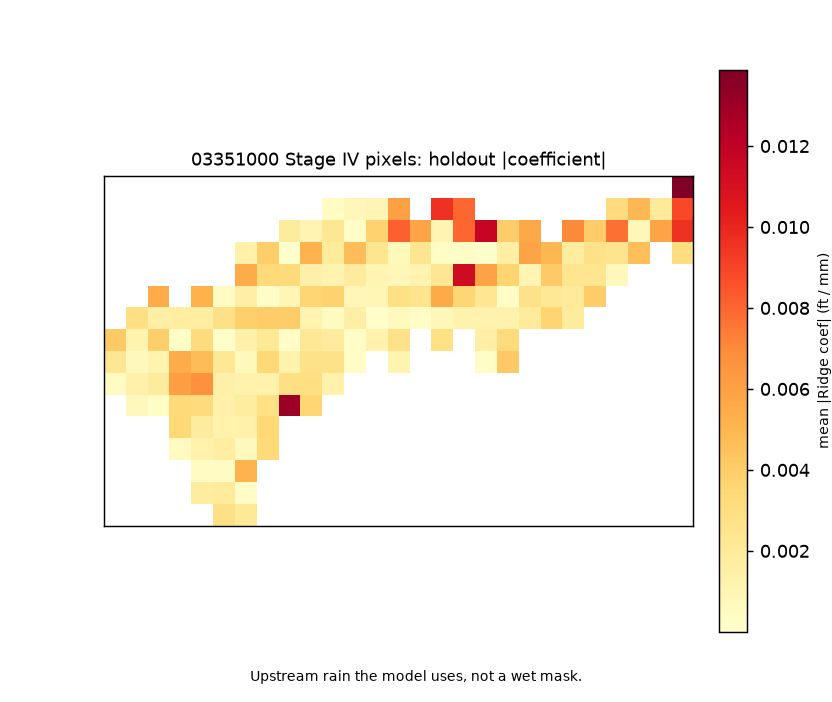
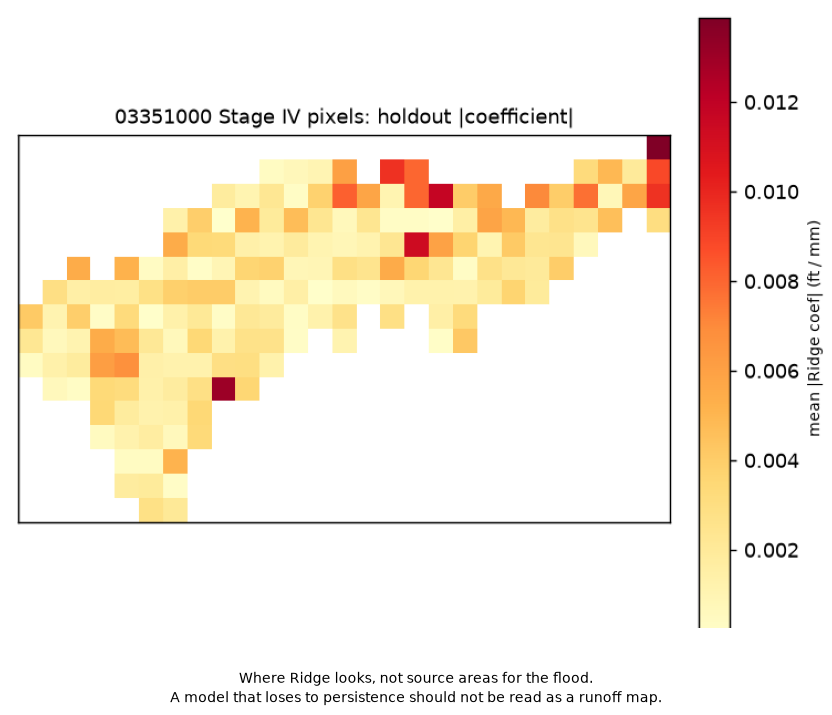
Lock e41fd69 as a negative live result.
Persistence is the bar. Figure 2 is where Ridge looks, not a runoff map.
Fixture skill does not rescue live.

Changed region(s): [[0.0, 0.0, 1.0, 0.9274], [0.2188, 0.9274, 0.8125, 0.9872]]

diff --git a/src/rainstage/figure.py b/src/rainstage/figure.py
@@ -9,7 +9,14 @@ from typing import Any
 import numpy as np
 
 from rainstage.claims import require_clean
-from rainstage.config import CREST_STAGE_FT, FLOOD_STAGE_FT, GAGE_ID, MAX_FIGURES
+from rainstage.config import (
+    CREST_STAGE_FT,
+    FIXTURE_ATTRIBUTION_SUBTITLE,
+    FLOOD_STAGE_FT,
+    GAGE_ID,
+    LIVE_ATTRIBUTION_SUBTITLE,
+    MAX_FIGURES,
+)
 from rainstage.errors import FigureCapError
 
 
@@ -83,15 +90,61 @@ def write_attribution(dest: Path, *, fit: dict[str, Any], title: str, subtitle: 
     ax.set_xticks([])
     ax.set_yticks([])
     ax.set_title(title, fontsize=10)
-    fig.text(0.5, 0.03, subtitle, ha="center", fontsize=8)
-    fig.subplots_adjust(bottom=0.10, top=0.90)
+    lines = [ln.strip() for ln in subtitle.split(".") if ln.strip()]
+    if len(lines) >= 2:
+        fig.text(0.5, 0.045, lines[0] + ".", ha="center", fontsize=8)
+        fig.text(0.5, 0.018, ". ".join(lines[1:]) + ".", ha="center", fontsize=7.5)
+        fig.subplots_adjust(bottom=0.12, top=0.90)
+    else:
+        fig.text(0.5, 0.03, subtitle, ha="center", fontsize=8)
+        fig.subplots_adjust(bottom=0.10, top=0.90)
     dest.parent.mkdir(parents=True, exist_ok=True)
     fig.savefig(dest, dpi=130)
     plt.close(fig)
     return dest
 
 
-def write_two(log_dir: Path, *, fit: dict[str, Any]) -> list[Path]:
+def restamp_attribution_caption(path: Path, *, subtitle: str) -> Path:
+    """Replace the footer on an existing attribution PNG. Does not re-fit."""
+    require_clean(subtitle, source="fig2_sub")
+    import matplotlib
+
+    matplotlib.use("Agg")
+    import matplotlib.pyplot as plt
+
+    img = np.asarray(plt.imread(path), dtype=float)
+    if img.max() > 1.0:
+        img = img / 255.0
+    rgb = img[..., :3] if img.ndim == 3 else img
+    ink = rgb.min(axis=2) if rgb.ndim == 3 else rgb
+    rows = np.where(ink < 0.97)[0]
+    cols = np.where(ink.min(axis=0) < 0.97)[0]
+    r0, r1 = int(rows[0]), int(rows[-1]) + 1
+    c0, c1 = int(cols[0]), int(cols[-1]) + 1
+    # Drop the old footer line; keep title, grid, colorbar.
+    r1 = r0 + int(0.90 * (r1 - r0))
+    crop = img[max(0, r0 - 8) : r1, max(0, c0 - 8) : min(img.shape[1], c1 + 8)]
+    fig, ax = plt.subplots(figsize=(6.4, 5.5))
+    ax.imshow(crop)
+    ax.set_xticks([])
+    ax.set_yticks([])
+    ax.set_title("")
+    for spine in ax.spines.values():
+        spine.set_visible(False)
+    lines = [ln.strip() for ln in subtitle.split(".") if ln.strip()]
+    if len(lines) >= 2:
+        fig.text(0.5, 0.045, lines[0] + ".", ha="center", fontsize=8)
+        fig.text(0.5, 0.018, ". ".join(lines[1:]) + ".", ha="center", fontsize=7.5)
+    else:
+        fig.text(0.5, 0.03, subtitle, ha="center", fontsize=8)
+    fig.subplots_adjust(bottom=0.12, top=0.99, left=0.01, right=0.99)
+    fig.savefig(path, dpi=130)
+    plt.close(fig)
+    return path
+
+
+def write_two(log_dir: Path, *, fit: dict[str, Any], live: bool = False) -> list[Path]:
+    sub = LIVE_ATTRIBUTION_SUBTITLE if live else FIXTURE_ATTRIBUTION_SUBTITLE
     paths = [
         write_hydrograph(
             log_dir / "hydrograph.png",
@@ -103,7 +156,7 @@ def write_two(log_dir: Path, *, fit: dict[str, Any]) -> list[Path]:
             log_dir / "attribution.png",
             fit=fit,
             title=f"{GAGE_ID} Stage IV pixels: holdout |coefficient|",
-            subtitle="Upstream rain the model uses, not a wet mask.",
+            subtitle=sub,
         ),
     ]
     _cap(len(paths))

diff --git a/src/rainstage/claims.py b/src/rainstage/claims.py
@@ -18,6 +18,8 @@ _BANS: tuple[tuple[str, re.Pattern[str]], ...] = (
     ("hand_firm", re.compile(r"\bHAND (?:mask|wet(?: area)?|bathtub) is (?:a |the )?FIRM\b", re.I)),
     ("attrib_wet", re.compile(r"\battribution (?:map|layer) is (?:a |the )?(?:wet mask|inundation)\b", re.I)),
     ("attrib_firm", re.compile(r"\battribution (?:map|layer) is (?:a |the )?FIRM\b", re.I)),
+    ("attrib_runoff", re.compile(r"\battribution (?:map|layer|grid) is (?:a |the )?(?:runoff map|source area)\b", re.I)),
+    ("fixture_rescues", re.compile(r"\bfixture (?:skill|RMSE) rescues live\b", re.I)),
     ("flood_warning", re.compile(r"\bflood warning\b|\bemergency forecast\b", re.I)),
     ("flood_ai", re.compile(r"\bflood AI\b", re.I)),
     ("train_fema", re.compile(r"\btrain(?:ed|ing)? (?:a )?(?:flood )?model on FEMA\b", re.I)),

diff --git a/tests/test_claims.py b/tests/test_claims.py
@@ -5,9 +5,14 @@ from rainstage.config import QUESTION
 
 
 def test_question_and_bans() -> None:
+    from rainstage.config import LIVE_ATTRIBUTION_SUBTITLE
+
     assert scan_text(QUESTION) == []
+    assert scan_text(LIVE_ATTRIBUTION_SUBTITLE) == []
     assert "flood_ai" in scan_text("we built flood AI")
     assert "attrib_wet" in scan_text("attribution map is a wet mask")
     assert "attrib_firm" in scan_text("attribution layer is a FIRM")
+    assert "attrib_runoff" in scan_text("attribution map is a runoff map")
+    assert "fixture_rescues" in scan_text("fixture skill rescues live")
     assert "flood_warning" in scan_text("this is a flood warning")
     assert "forecast" in scan_text("P(sfha | hydro) is a flood forecast")

diff --git a/src/rainstage/config.py b/src/rainstage/config.py
@@ -29,6 +29,14 @@ LOCKED_NLDI_BASIN_SHA256 = "944566fd7828b63d4975dbeea69152c9c339ce11c71e668c0143
 LOCKED_NLDI_AREA_MI2 = 1227.28
 LOCKED_STAGEIV_CELLSIZE_M = 4762.5
 LOCKED_STAGEIV_CRS_TOKEN = "NOAA_HRAP_Grid"
+LOCKED_LIVE_COMMIT = "e41fd69602046683818dd33b28ddc07029d8c605"
+LIVE_ATTRIBUTION_SUBTITLE = (
+    "Where Ridge looks, not source areas for the flood. "
+    "A model that loses to persistence should not be read as a runoff map."
+)
+FIXTURE_ATTRIBUTION_SUBTITLE = (
+    "Fixture: which cells the synthetic Ridge uses. Does not rescue live skill."
+)
 NWIS_DV_URL = (
     "https://waterservices.usgs.gov/nwis/dv/?format=json&sites={site}"
     "&startDT={start}&endDT={end}&parameterCd={code}&siteStatus=all"

diff --git a/tests/test_readme.py b/tests/test_readme.py
@@ -17,6 +17,9 @@ def test_readme_opens_with_the_question() -> None:
     assert "p_sfha" in text
     assert "white_river_stage_inundation" in text
     assert "indiana_flood_completion" in text
+    assert "e41fd69" in text
+    assert "should not be read as a runoff map" in text
+    assert "does not rescue live skill" in text.lower()
     assert scan_text(text) == []
     assert "—" not in text
     assert "What it is not" not in text

diff --git a/tests/test_rainforge_laws.py b/tests/test_rainforge_laws.py
@@ -67,6 +67,8 @@ def test_claims_and_figure_cap() -> None:
         require_claims(n_figures=3, thread_id="t.c.fig")
     with pytest.raises(LawBlockedError):
         require_claims(attrib_as_wet_mask=True, thread_id="t.c.wet")
+    with pytest.raises(LawBlockedError):
+        require_claims(attrib_as_runoff=True, thread_id="t.c.runoff")
 
 
 def test_registry() -> None:

diff --git a/src/rainstage/pipeline.py b/src/rainstage/pipeline.py
@@ -68,7 +68,7 @@ def _run(
         future_rain=bool(fit["future_rain"]),
         thread_id="split",
     )
-    paths = write_two(log_dir, fit=fit)
+    paths = write_two(log_dir, fit=fit, live=not fixture)
     require_claims(n_figures=len(paths), thread_id="claims")
     log_dir.mkdir(parents=True, exist_ok=True)
     report: dict[str, Any] = {

diff --git a/rainforge/product_laws.py b/rainforge/product_laws.py
@@ -54,6 +54,7 @@ def laws() -> list[dict[str, Any]]:
                 "attrib_as_wet_mask": False,
                 "attrib_as_firm": False,
                 "flood_warning": False,
+                "attrib_as_runoff": False,
                 "n_figures": 2,
             },
             "allow_decisions": ["allow"],

diff --git a/rainforge/graphs/claim_bans.py b/rainforge/graphs/claim_bans.py
@@ -5,7 +5,7 @@ from typing import Any
 
 from rainforge.graphs._common import binary_graph
 
-_FLAGS = ("attrib_as_wet_mask", "attrib_as_firm", "flood_warning")
+_FLAGS = ("attrib_as_wet_mask", "attrib_as_firm", "flood_warning", "attrib_as_runoff")
 
 
 def _evaluate(state: dict[str, Any]) -> dict[str, Any]:

diff --git a/rainforge/gate.py b/rainforge/gate.py
@@ -81,6 +81,7 @@ def require_claims(**flags: Any) -> None:
         "attrib_as_wet_mask": False,
         "attrib_as_firm": False,
         "flood_warning": False,
+        "attrib_as_runoff": False,
         "n_figures": 2,
     }
     state.update(flags)

diff --git a/README.md b/README.md
@@ -2,35 +2,53 @@
 
 Can Stage IV rain on the 1,219 mi² Nora drainage, plus last-day discharge, predict gage height at USGS 03351000?
 
-This tree is hydrology ML at USGS **03351000** / NWS **NORI3**. The label is observed gage height (NWIS 00065; daily max of IV because DV 00065 is unpublished). Inputs are NCEP Stage IV daily rainfall clipped to the NLDI basin for that gage (published **1,219 mi²**, live geodesic **1,227.28 mi²**, 178 HRAP cells) and last-day discharge (NWIS 00060, lag 1). The map is which upstream Stage IV pixels the model uses (Ridge |coefficient|). That map is attribution, not a wet mask. This tree does not read `p_sfha`.
+On this live sample, with this Ridge: no.
+
+Persistence wins (RMSE 1.03 ft). Rain-sum plus yesterday's Q is second (2.58). The 178-pixel Ridge is third on RMSE (3.19) and ties the simple rain model on MAE (0.84 vs 0.83). With 89 summer training days there are not enough events for Stage IV pixels to beat "today looks like yesterday," and a linear rain sum overshoots the 15 Aug crest.
+
+The fixture beating persistence only shows the synthetic hotspot is recoverable. It does not rescue live skill.
+
+Live negative result is commit `e41fd69`. This tree does not read `p_sfha`.
 
 Sibling HAND paint: https://github.com/martialsystems/white_river_stage_inundation  
 Sibling map-completion: https://github.com/martialsystems/indiana_flood_completion
 
-Nowcast, not QPF: rain that already fell. Daily timestep. Train through water year 2024 (through 2024-09-30). Hold out 2025 to 2026. August 2026 is a named confirmation event and is not in train. Live v1 windows are summers: 2024-07-01 to 2024-09-30 (train), 2025-07-01 to 2025-09-30 and 2026-07-01 to 2026-08-20 (holdout). 235 Stage IV days, 0 skipped.
-
 ![Figure 1. Holdout hydrograph](logs/nora_live/hydrograph.png)
 
-Figure 1. Live holdout: observed stage, persistence, and model A (Ridge on basin-mean rain lags 0 to 3, last-day Q, day-of-year). Lines at 11.00 ft and 21.18 ft. August 2026 shaded. Persistence RMSE 1.03 ft. Model A 3.19 ft: it overshoots the 2026-08-15 crest. Yesterday's stage is the better nowcast on this sample.
+Figure 1. Live holdout at USGS **03351000**: observed stage, persistence, and the 7-feature Ridge (basin-mean rain lags 0 to 3, last-day Q, day-of-year). Lines at 11.00 ft and 21.18 ft. August 2026 shaded. Persistence is the bar.
 
 ![Figure 2. Attribution](logs/nora_live/attribution.png)
 
-Figure 2. Live Stage IV pixels on the 1,219 mi² drainage, colored by holdout |Ridge coefficient|. Upstream rain the model uses, not a wet mask.
+Figure 2. Where Ridge looks, not source areas for the flood. A model that loses to persistence should not be read as a runoff map.
+
+## Why this was expected, and still worth shipping
+
+178 cells on 89 days is a wide, short matrix. The two-feature rain-sum model beating Ridge is the tell.
+
+Daily Stage IV versus daily-max stage ignores travel time on 1,227 mi².
+
+Summers plus one huge crest in holdout will punish any linear rain term.
+
+NLDI 1,227 versus USGS 1,219 mi² is close enough with the basin sha pinned. DV 00065 empty, then IV daily max, was the right fallback. Siblings untouched.
 
 ## Live skill (holdout)
 
-From `logs/nora_live/stage_c_report.json`. RMSE and MAE in feet. Train n=89 (WY2024 summer). Holdout n=143. August 2026 not in train. Native Stage IV units: inches, stored as mm. Label: IV daily max.
+Locked from `e41fd69` / `logs/nora_live/stage_c_report.json`. RMSE and MAE in feet. Train n=89 (WY2024 summer). Holdout n=143. August 2026 not in train. Native Stage IV units: inches, stored as mm. Label: IV daily max. 235 Stage IV days, 178 HRAP cells.
 
 | Model | RMSE (ft) | MAE (ft) |
 |-------|----------:|---------:|
 | Persistence | 1.03 | 0.50 |
 | Climatology | 3.42 | 1.49 |
 | Rain-sum + Q_lag | 2.58 | 0.83 |
-| Model A (Ridge) | 3.19 | 0.84 |
+| 178-pixel Ridge | 3.19 | 0.84 |
+
+## Next tree, if any
+
+Longer years plus a routed or lagged basin-mean rain term. Not more pixels, and not a wet mask. Persistence stays the bar. Do not start that tree from this commit.
 
 ## Stage 0
 
-Synthetic 8×10 basin so CI trains without NOAA. Fixture skill (A RMSE 0.37 ft vs persistence 0.54 ft) is in `logs/stage0_fixture/stage0_report.json`. Tests require A to beat persistence on that synthetic series and the hotspot |coef| to exceed the other cells.
+Synthetic 8×10 basin so CI trains without NOAA. Fixture skill (A RMSE 0.37 ft vs persistence 0.54 ft) is an oracle that the pipeline can recover a planted hotspot. It is not live skill.
 
 ```bash
 python3.12 -m venv .venv

diff --git a/METHODOLOGY.md b/METHODOLOGY.md
@@ -2,6 +2,8 @@
 
 Question: Can Stage IV rain on the 1,219 mi² Nora drainage, plus last-day discharge, predict gage height at USGS 03351000?
 
+Live answer at `e41fd69`, this sample, this Ridge: no. Persistence RMSE 1.03 ft. Rain-sum plus yesterday's Q 2.58. 178-pixel Ridge 3.19 RMSE, MAE tied with the two-feature rain model. Fixture skill does not rescue live.
+
 ## Layers
 
 | Layer | Role | Source |
@@ -11,27 +13,31 @@ Question: Can Stage IV rain on the 1,219 mi² Nora drainage, plus last-day disch
 | Last-day Q | antecedent | NWIS daily 00060, lag 1 calendar day |
 | Label | observed stage | NWIS daily 00065 at 03351000. If DV 00065 is unpublished, daily max of IV 00065. |
 
-Same-day Stage IV (lag 0) is a nowcast of that day's stage from rain that already fell, not QPF.
+Same-day Stage IV (lag 0) is a nowcast of that day's stage from rain that already fell, not QPF. Daily rain versus daily-max stage ignores travel time on 1,227 mi².
 
 ## Models
 
-**A (skill).** Ridge on basin-mean rain at lags 0, 1, 2, 3 days; last-day Q; day-of-year sine and cosine. Compared to persistence (yesterday's stage) and Ridge on rain-sum + Q_lag. RMSE and MAE in feet on the temporal holdout. HistGradientBoosting is allowed by the contract; Ridge is the v1 skill model because the hydrologic vector is short.
+**A (skill).** Ridge on basin-mean rain at lags 0, 1, 2, 3 days; last-day Q; day-of-year sine and cosine. Compared to persistence (yesterday's stage) and Ridge on rain-sum + Q_lag. RMSE and MAE in feet on the temporal holdout. Persistence is the bar.
 
-**B (attribution).** Ridge on the vector of Stage IV cell 24 h accumulations plus last-day Q. The map is mean |coefficient| on the holdout, optionally times rain on 2026-08-15. About 1,219 / 16 ≈ 200 cells. That map is which upstream pixels matter, not inundation.
+**B (attribution).** Ridge on the vector of Stage IV cell 24 h accumulations plus last-day Q. About 178 cells on this drainage. The grid is where Ridge looks, not source areas for the flood. A model that loses to persistence should not be read as a runoff map.
 
 Random row splits are banned. Train through water year 2024 (through 2024-09-30). Hold out from 2024-10-01. August 2026 is not in train. Future rain (negative lag) is refused.
 
-Live v1 date windows are summers (2024-07-01 to 2024-09-30 train; 2025-07-01 to 2025-09-30 and 2026-07-01 to 2026-08-20 holdout), 235 Stage IV days, 178 basin cells. On that holdout, persistence RMSE is 1.03 ft and model A is 3.19 ft (overshoot of the 2026-08-15 crest). The attribution map is still the pixel question. Fixture skill is a synthetic recoverability check, not the live nowcast.
+Live v1 windows are summers (2024-07-01 to 2024-09-30 train; 2025-07-01 to 2025-09-30 and 2026-07-01 to 2026-08-20 holdout), 235 Stage IV days, 89 train rows, 143 holdout rows. 178 cells on 89 days is a wide, short matrix. The two-feature rain-sum model beating Ridge is the tell. Summers plus one huge crest in holdout punish a linear rain term.
 
 ## Stages
 
-0: fixture rain field, synthetic Q/stage, temporal fit, two figures, no `p_sfha` import.
+0: fixture rain field, synthetic Q/stage, temporal fit, two figures, no `p_sfha` import. Fixture is a CI oracle (planted hotspot recoverable), not live skill.
 A: fetch Stage IV + NWIS + NLDI; clip; stop on 404/empty.
 B: temporal split, fit A and B.
 C: two figures, claim scan.
 
 ## Claims
 
-Allowed: rain-to-stage nowcast at 03351000; Stage IV pixels on the 1,219 mi² drainage; last-day discharge as antecedent; attribution of upstream rain.
+Allowed: rain-to-stage nowcast at 03351000; Stage IV pixels on the 1,219 mi² drainage; last-day discharge as antecedent; negative live result versus persistence; "where Ridge looks."
 
-Banned: 100-year exceedance; `P(sfha | hydro)` as a feature, label, or forecast; HAND mask as a FIRM; attribution as a wet mask or a FIRM; flood warning / emergency forecast; training on FEMA; climate; a third figure.
+Banned: 100-year exceedance; `P(sfha | hydro)` as a feature, label, or forecast; HAND mask as a FIRM; attribution as a wet mask, a FIRM, a runoff map, or source areas for the flood; fixture skill rescues live; flood warning / emergency forecast; training on FEMA; climate; a third figure.
+
+## Next tree, if any
+
+Longer years plus a routed or lagged basin-mean rain term. Not more pixels. Not a wet mask. Persistence stays the bar. Do not start that tree from this snapshot.
